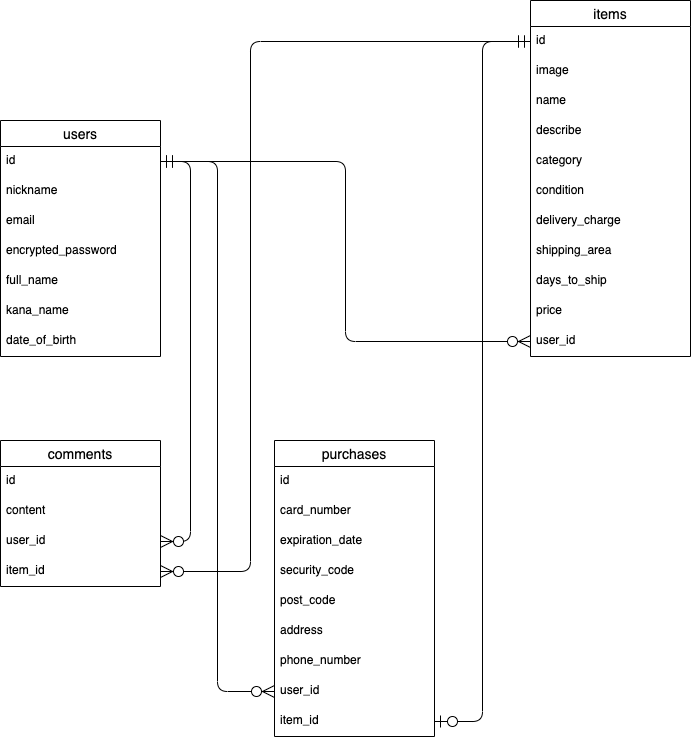
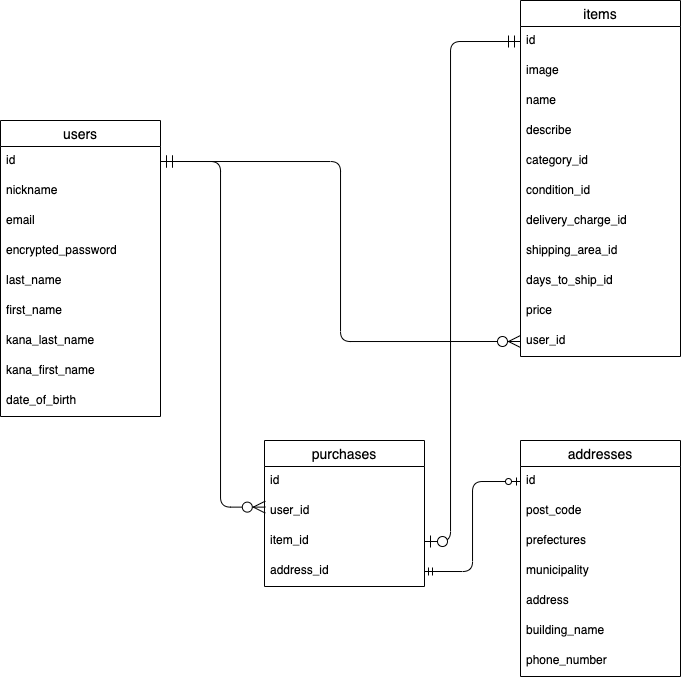
テーブル設計の修正1

diff --git a/README.md b/README.md
@@ -7,65 +7,63 @@
 | nickname           | string | null: false               |
 | email              | string | null: false, unique: true |
 | encrypted_password | string | null: false               |
-| full_name          | string | null: false               |
-| kana_name          | string | null: false               |
+| last_name          | string | null: false               |
+| first_name         | string | null: false               |
+| kana_last_name     | string | null: false               |
+| kana_first_name    | string | null: false               |
 | date_of_birth      | date   | null: false               |
 
 ### Association
 
 - has_many :items
-- has_many :comments
 - has_many :purchases
 
 ## items テーブル
 
-| Column          | Type       | Options                        |
-| --------------- | ---------- | ------------------------------ |
-| name            | string     | null: false                    |
-| describe        | text       | null: false                    |
-| category        | string     | null: false                    |
-| condition       | integer    | null: false                    |
-| delivery_charge | integer    | null: false                    |
-| shipping_area   | string     | null: false                    |
-| days_to_ship    | integer    | null: false                    |
-| price           | integer    | null: false                    |
-| user_id         | references | null: false, foreign_key: true |
+| Column             | Type       | Options                        |
+| ------------------ | ---------- | ------------------------------ |
+| name               | string     | null: false                    |
+| describe           | text       | null: false                    |
+| category_id        | integer    | null: false                    |
+| condition_id       | integer    | null: false                    |
+| delivery_charge_id | integer    | null: false                    |
+| shipping_area_id   | integer    | null: false                    |
+| days_to_ship_id    | integer    | null: false                    |
+| price              | integer    | null: false                    |
+| user               | references | null: false, foreign_key: true |
 
 - image保存はActiveStorageを使用
 
 ### Association
 
 - belongs_to :user
-- has_many :comments
 - has_one :purchase
-
-## comments テーブル
-
-| Column  | Type       | Options                        |
-| ------- | ---------- | ------------------------------ |
-| content | text       | null: false                    |
-| user_id | references | null: false, foreign_key: true |
-| item_id | references | null: false, foreign_key: true |
-
-### Association
-
-- belongs_to :user
-- belongs_to :item
 
 ## purchases テーブル
 
-| Column          | Type       | Options                        |
-| --------------- | ---------- | ------------------------------ |
-| card_number     | string     | null: false                    |
-| expiration_date | string     | null: false                    |
-| security_code   | integer    | null: false                    |
-| post_code       | string     | null: false                    |
-| address         | string     | null: false                    |
-| phone_number    | string     | null: false                    |
-| user_id         | references | null: false, foreign_key: true |
-| item_id         | references | null: false, foreign_key: true |
+| Column     | Type       | Options                        |
+| ---------- | ---------- | ------------------------------ |
+| user       | references | null: false, foreign_key: true |
+| item       | references | null: false, foreign_key: true |
+| address_id | references | null: false, foreign_key: true |
 
 ### Association
 
 - belongs_to :user
 - belongs_to :item
+- has_one :address
+
+## addresses テーブル
+
+| Column        | Type   | Options     |
+| ------------- | ------ | ----------- |
+| post_code     | string | null: false |
+| prefectures   | string | null: false |
+| municipality  | string | null: false |
+| address       | string | null: false |
+| building_name | string | null: false |
+| phone_number  | string | null: false |
+
+### Association
+
+- belongs_to :purchase
